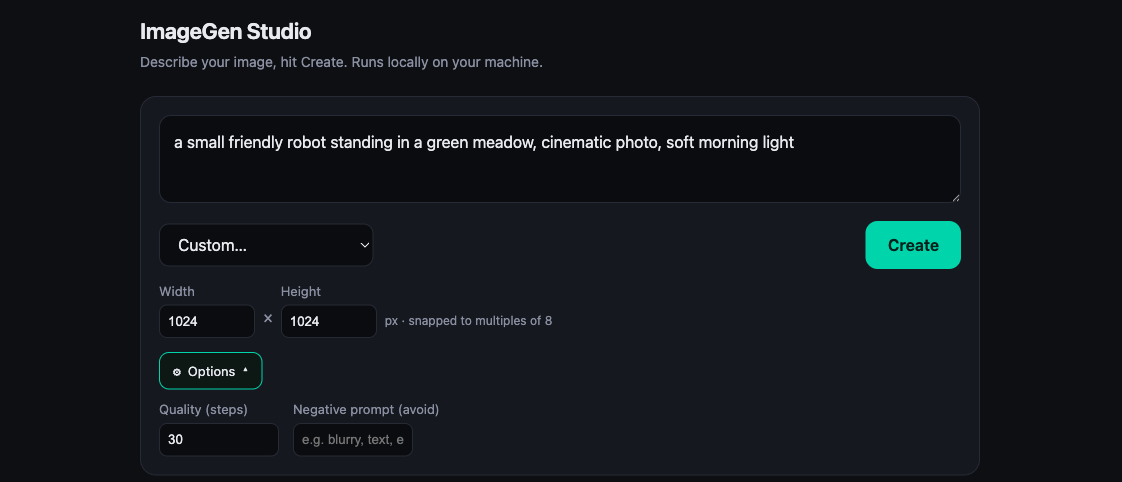
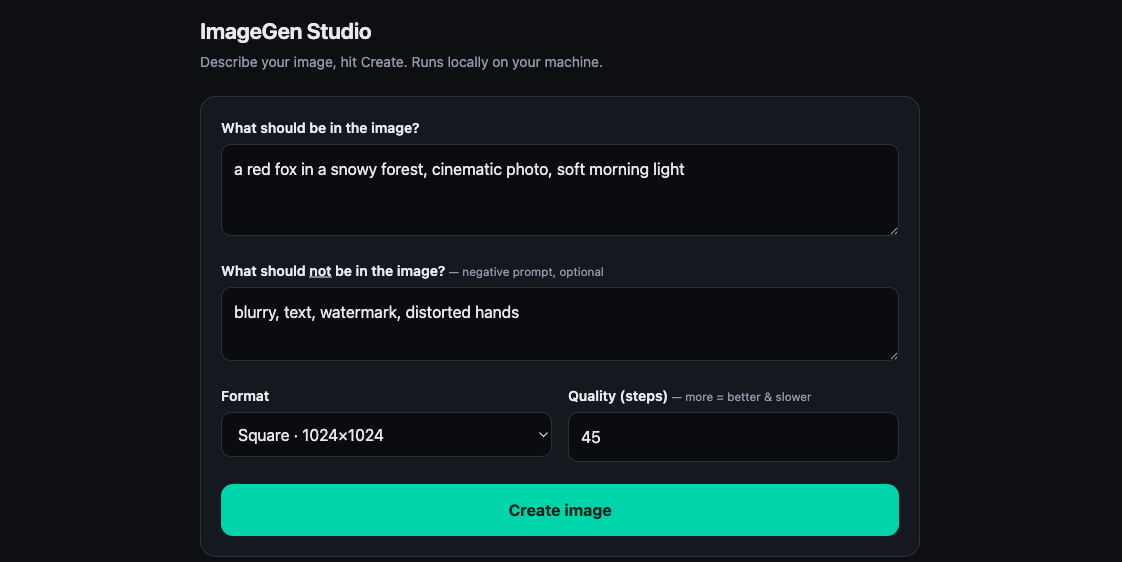
Redesign UI: all fields visible (negative prompt no longer hidden), uncapped quality input; refresh screenshot

diff --git a/ui_server.py b/ui_server.py
@@ -31,60 +31,54 @@ FORMATS = {
 
 
 def resolve_size(fmt, width, height):
-    """Return (w, h). For 'custom', snap inputs to a multiple of 8 within a sane range."""
+    """Return (w, h). For 'custom', snap inputs to a multiple of 8 (a ComfyUI requirement)."""
     if fmt == "custom":
         def snap(v, d):
             try:
                 v = int(v)
             except (TypeError, ValueError):
                 return d
-            v = max(256, min(2048, v))
+            v = max(64, v)
             return v - (v % 8)
         return snap(width, 1024), snap(height, 1024)
     return FORMATS.get(fmt, FORMATS["square"])
+
 
 PAGE = """<!doctype html><html lang=en><head><meta charset=utf-8>
 <meta name=viewport content="width=device-width,initial-scale=1">
 <title>ImageGen Studio</title>
 <style>
-:root{--bg:#0e0f13;--panel:#16181f;--line:#262a35;--ink:#e8eaf0;--mut:#8a90a2;--accent:#00d4aa}
+:root{--bg:#0e0f13;--panel:#16181f;--line:#2a2f3a;--ink:#e8eaf0;--mut:#9099ad;--accent:#00d4aa}
 *{box-sizing:border-box}
 body{margin:0;background:var(--bg);color:var(--ink);font:16px/1.5 -apple-system,BlinkMacSystemFont,'Segoe UI',sans-serif}
-.wrap{max-width:880px;margin:0 auto;padding:32px 20px 80px}
+.wrap{max-width:760px;margin:0 auto;padding:32px 20px 80px}
 h1{font-size:22px;font-weight:650;letter-spacing:-.01em;margin:0 0 4px}
 .sub{color:var(--mut);font-size:14px;margin:0 0 24px}
-.card{background:var(--panel);border:1px solid var(--line);border-radius:16px;padding:18px}
-textarea{width:100%;min-height:88px;resize:vertical;background:#0b0c10;color:var(--ink);
- border:1px solid var(--line);border-radius:12px;padding:14px;font:inherit;outline:none}
-textarea:focus{border-color:var(--accent)}
-.row{display:flex;gap:10px;align-items:center;flex-wrap:wrap;margin-top:12px}
-select,button{font:inherit;border-radius:10px;border:1px solid var(--line);padding:10px 14px}
-select{background:#0b0c10;color:var(--ink)}
-button.go{margin-left:auto;background:var(--accent);color:#04211b;border:none;font-weight:650;
- padding:12px 22px;border-radius:12px;cursor:pointer}
-button.go:disabled{opacity:.5;cursor:default}
-.adv{display:inline-flex;align-items:center;gap:7px;margin-top:14px;color:var(--mut);font-size:13px;
- cursor:pointer;user-select:none;padding:8px 13px;border:1px solid var(--line);border-radius:10px;
- background:#0b0c10;transition:border-color .15s,color .15s,background .15s}
-.adv:hover{border-color:var(--accent);color:var(--ink)}
-.adv.open{border-color:var(--accent);color:var(--ink);background:#0d1714}
-.adv .chev{transition:transform .2s}
-.adv.open .chev{transform:rotate(180deg)}
-.advbox{display:none;margin-top:10px;gap:14px;flex-wrap:wrap}
-.advbox.open{display:flex}
-.advbox label{font-size:13px;color:var(--mut);display:flex;flex-direction:column;gap:4px}
-.advbox input{background:#0b0c10;color:var(--ink);border:1px solid var(--line);border-radius:8px;padding:8px;width:120px}
-.custombox{display:none;align-items:flex-end;gap:8px;flex-wrap:wrap;margin-top:12px}
-.custombox.open{display:flex}
-.custombox label{font-size:13px;color:var(--mut);display:flex;flex-direction:column;gap:4px}
-.custombox input{background:#0b0c10;color:var(--ink);border:1px solid var(--line);border-radius:8px;padding:8px;width:96px}
-.custombox .x{color:var(--mut);padding-bottom:9px}
-.custombox .hint{color:var(--mut);font-size:12px;padding-bottom:9px}
-.bar{height:8px;background:#0b0c10;border:1px solid var(--line);border-radius:99px;overflow:hidden;margin:10px 0;display:none}
+.card{background:var(--panel);border:1px solid var(--line);border-radius:16px;padding:20px}
+.field{margin-top:18px}
+.field:first-child{margin-top:0}
+.lbl{display:block;font-size:14px;font-weight:600;margin-bottom:6px}
+.lbl small{font-weight:400;color:var(--mut)}
+textarea,input[type=text],input[type=number]{width:100%;background:#0b0c10;color:var(--ink);border:1px solid var(--line);
+ border-radius:10px;padding:12px;font:inherit;outline:none}
+textarea:focus,input:focus,select:focus{border-color:var(--accent)}
+#prompt{min-height:92px;resize:vertical}
+#neg{min-height:48px;resize:vertical}
+.grid2{display:grid;grid-template-columns:1fr 1fr;gap:16px;margin-top:18px}
+@media(max-width:560px){.grid2{grid-template-columns:1fr}}
+select{width:100%;background:#0b0c10;color:var(--ink);border:1px solid var(--line);border-radius:10px;padding:11px 12px;font:inherit}
+.custom{display:none;gap:8px;align-items:flex-end;margin-top:10px}
+.custom.on{display:flex}
+.custom input{width:90px}
+.custom .x{color:var(--mut);padding-bottom:9px}
+.go{width:100%;margin-top:22px;background:var(--accent);color:#04211b;border:none;font:inherit;font-weight:700;
+ font-size:16px;padding:14px;border-radius:12px;cursor:pointer}
+.go:disabled{opacity:.5;cursor:default}
+.bar{height:8px;background:#0b0c10;border:1px solid var(--line);border-radius:99px;overflow:hidden;margin:18px 0 0;display:none}
 .bar.on{display:block}
 .bar>i{display:block;height:100%;width:0;background:var(--accent);transition:width .3s ease}
-#status{margin:22px 0 8px;color:var(--mut);min-height:22px}
-.gallery{display:grid;grid-template-columns:repeat(auto-fill,minmax(200px,1fr));gap:14px;margin-top:14px}
+#status{margin:14px 0 0;color:var(--mut);min-height:22px;font-size:14px}
+.gallery{display:grid;grid-template-columns:repeat(auto-fill,minmax(200px,1fr));gap:14px;margin-top:18px}
 .gallery a{display:block;border:1px solid var(--line);border-radius:12px;overflow:hidden;background:#000}
 .gallery img{width:100%;display:block}
 .spin{display:inline-block;width:14px;height:14px;border:2px solid var(--line);
@@ -94,30 +88,43 @@ button.go:disabled{opacity:.5;cursor:default}
 <h1>ImageGen Studio</h1>
 <p class=sub>Describe your image, hit Create. Runs locally on your machine.</p>
 <div class=card>
- <textarea id=prompt placeholder="e.g. a red fox in a snowy forest, cinematic photo, soft light"></textarea>
- <div class=row>
-  <select id=format>
-   <option value=square>Square &middot; 1024&times;1024</option>
-   <option value=portrait>Portrait &middot; 832&times;1216</option>
-   <option value=landscape>Landscape &middot; 1216&times;832</option>
-   <option value=tall>Tall &middot; 768&times;1344</option>
-   <option value=wide>Wide &middot; 1344&times;768</option>
-   <option value=custom>Custom&hellip;</option>
-  </select>
-  <button class=go id=go>Create</button>
+
+ <div class=field>
+  <label class=lbl for=prompt>What should be in the image?</label>
+  <textarea id=prompt placeholder="e.g. a red fox in a snowy forest, cinematic photo, soft light"></textarea>
  </div>
- <div class=custombox id=custombox>
-  <label>Width<input type=number id=cw value=1024 min=256 max=2048 step=8></label>
-  <span class=x>&times;</span>
-  <label>Height<input type=number id=ch value=1024 min=256 max=2048 step=8></label>
-  <span class=hint>px &middot; snapped to multiples of 8</span>
+
+ <div class=field>
+  <label class=lbl for=neg>What should <u>not</u> be in the image? <small>— negative prompt, optional</small></label>
+  <textarea id=neg placeholder="e.g. blurry, text, watermark, distorted hands"></textarea>
  </div>
- <div class=adv id=advtoggle><span>&#9881;</span> Options <span class=chev>&#9662;</span></div>
- <div class=advbox id=advbox>
-  <label>Quality (steps)<input type=number id=steps value=30 min=8 max=60></label>
-  <label>Negative prompt (avoid)<input type=text id=neg value="" placeholder="e.g. blurry, text, extra fingers"></label>
+
+ <div class=grid2>
+  <div>
+   <label class=lbl for=format>Format</label>
+   <select id=format>
+    <option value=square>Square · 1024×1024</option>
+    <option value=portrait>Portrait · 832×1216</option>
+    <option value=landscape>Landscape · 1216×832</option>
+    <option value=tall>Tall · 768×1344</option>
+    <option value=wide>Wide · 1344×768</option>
+    <option value=custom>Custom size …</option>
+   </select>
+   <div class=custom id=custom>
+    <label>Width<br><input type=number id=cw value=1024 min=64 step=8></label>
+    <span class=x>×</span>
+    <label>Height<br><input type=number id=ch value=1024 min=64 step=8></label>
+   </div>
+  </div>
+  <div>
+   <label class=lbl for=steps>Quality (steps) <small>— more = better &amp; slower</small></label>
+   <input type=number id=steps value=30 min=1 step=1>
+  </div>
  </div>
+
+ <button class=go id=go>Create image</button>
 </div>
+
 <div class=bar id=bar><i id=barfill></i></div>
 <div id=status></div>
 <div class=gallery id=gallery></div>
@@ -125,14 +132,14 @@ button.go:disabled{opacity:.5;cursor:default}
 <script>
 const $=s=>document.querySelector(s);
 const go=$('#go'),status=$('#status'),gallery=$('#gallery'),bar=$('#bar'),barfill=$('#barfill');
-const fmt=$('#format'),custombox=$('#custombox');
+const fmt=$('#format'),custom=$('#custom');
 const WSPORT=%%WSPORT%%;
-$('#advtoggle').onclick=function(){this.classList.toggle('open');$('#advbox').classList.toggle('open')};
-fmt.onchange=()=>custombox.classList.toggle('open',fmt.value==='custom');
+
+fmt.onchange=()=>custom.classList.toggle('on',fmt.value==='custom');
 $('#prompt').addEventListener('keydown',e=>{if((e.metaKey||e.ctrlKey)&&e.key==='Enter')run()});
 go.onclick=run;
 
-// Unique id for this session + live connection to ComfyUI for progress
+// Live progress from ComfyUI
 const clientId='studio-'+Math.random().toString(36).slice(2);
 let ws;
 function connectWs(){
@@ -154,12 +161,14 @@ connectWs();
 async function run(){
  const prompt=$('#prompt').value.trim();
  if(!prompt){$('#prompt').focus();return}
+ const steps=Math.max(1,parseInt($('#steps').value)||30);
  go.disabled=true;
  bar.classList.remove('on');barfill.style.width='0';
  status.innerHTML='<span class=spin></span>Rendering &mdash; starting';
  try{
   const r=await fetch('/generate',{method:'POST',headers:{'Content-Type':'application/json'},
-   body:JSON.stringify({prompt,format:fmt.value,width:+$('#cw').value,height:+$('#ch').value,steps:+$('#steps').value,neg:$('#neg').value,clientId})});
+   body:JSON.stringify({prompt,neg:$('#neg').value,format:fmt.value,
+    width:+$('#cw').value,height:+$('#ch').value,steps,clientId})});
   const d=await r.json();
   bar.classList.remove('on');
   if(!r.ok||d.error){status.textContent='Error: '+(d.error||r.status);go.disabled=false;return}
@@ -178,7 +187,7 @@ def generate(prompt, fmt, width, height, steps, neg, client_id):
     seed = random.randint(0, 2**32 - 1)
     neg = neg or "lowres, bad anatomy, worst quality, low quality, blurry, watermark, text"
     ckpt = pick_checkpoint()
-    wf = build_txt2img(ckpt, prompt, neg, w, h, int(steps), 5.5, seed, "dpmpp_2m", "karras", 1)
+    wf = build_txt2img(ckpt, prompt, neg, w, h, max(1, int(steps)), 5.5, seed, "dpmpp_2m", "karras", 1)
     pid = api("/prompt", {"prompt": wf, "client_id": client_id or f"ui-{seed}"})["prompt_id"]
     while True:
         hist = api(f"/history/{pid}")